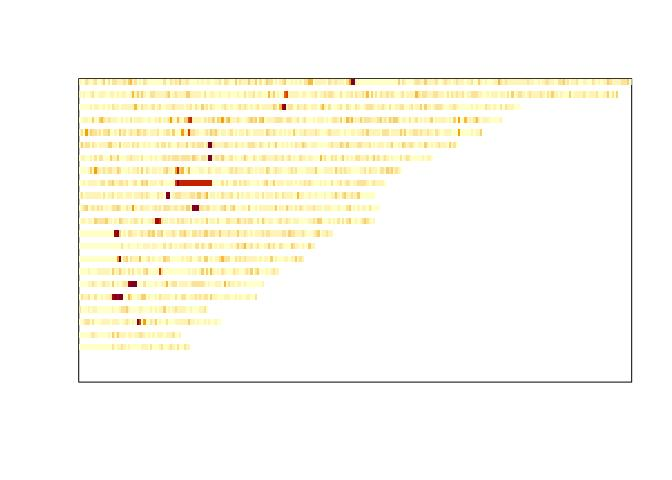
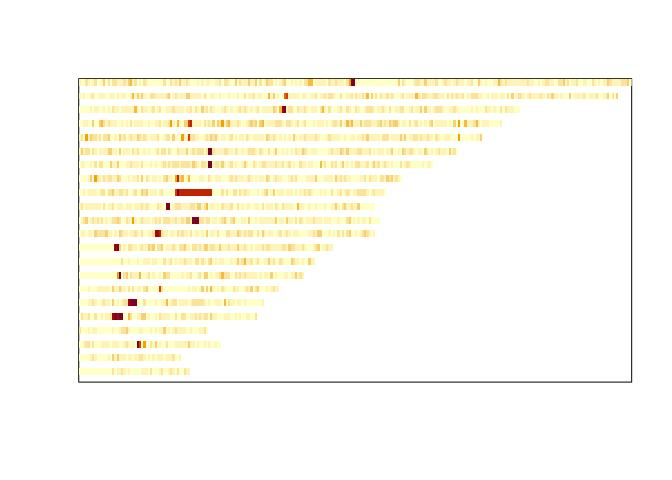
roh update

Changed region(s): [[0.0938, 0.1875, 0.9375, 0.7812]]

diff --git a/roh/roh.md b/roh/roh.md
@@ -1,13 +1,34 @@
 Runs of homozygosity on 943 individuals
 ================
 
+## Runs of homozygozity (ROH)
+
+#### ROHs quality histogram
+
+``` r
+# Quality filtering: Quality>25 & #markers > 50
+roh <- roh %>% 
+  filter(Quality > 25 & Number_of_markers >50)
+```
+
+#### ROH stats after quality filtering
+
 | stat                |   min |  median |      mean |        max |
 |:--------------------|------:|--------:|----------:|-----------:|
-| Length              | 609.0 | 73043.0 | 159868.28 | 63912719.0 |
-| Number\_of\_markers |  51.0 |   133.0 |    211.22 |    45797.0 |
-| Quality             |  25.1 |    60.5 |     59.46 |       98.7 |
+| Length              | 609.0 | 72459.0 | 123018.00 | 29363916.0 |
+| Number\_of\_markers |  51.0 |   132.0 |    193.66 |    33173.0 |
+| Quality             |  25.1 |    60.4 |     59.40 |       98.7 |
 
-ROHs quality histogram
+Average ROH size per genome (additionally filtered: &gt;100kb)
+
+| stat      |       average |
+|:----------|--------------:|
+| count     |       1124.41 |
+| maxLen    |   14239847.30 |
+| meanLen   |     252746.68 |
+| medianLen |     164071.12 |
+| minLen    |     100073.33 |
+| sumLen    | 284174602\.38 |
 
 ## Results
 
@@ -55,26 +76,28 @@ ROHs quality histogram
 | 2Mb-5Mb  |     2.892791 |
 | &gt;10Mb |    16.239240 |
 
-4.  Sum of ROHs per chromosome and individual
-
-<!-- -->
-
-    ## `summarise()` has grouped output by 'sample_id', 'Chromosome'. You can override using the `.groups` argument.
-
-![](roh_files/figure-gfm/unnamed-chunk-4-1.jpeg)<!-- -->
-
-    ## `summarise()` has grouped output by 'sample_id'. You can override using the `.groups` argument.
-
-    ## Adding missing grouping variables: `sample_id`
-
-|     | sample\_id       | mean\_SROH\_Mb |
-|:----|:-----------------|:---------------|
-|     | Length:6575      | Min. : 2.000   |
-|     | Class :character | 1st Qu.: 2.358 |
-|     | Mode :character  | Median : 2.972 |
-|     | NA               | Mean : 4.763   |
-|     | NA               | 3rd Qu.: 3.900 |
-|     | NA               | Max. :38.193   |
+<!-- 4. Sum of ROHs per chromosome and individual -->
+<!-- ```{r, echo=F} -->
+<!-- roh$Chromosome <- gsub('chr','',roh$Chromosome) -->
+<!-- roh$Chromosome <- as.numeric(roh$Chromosome) -->
+<!-- roh$Chromosome <- factor(roh$Chromosome) -->
+<!-- roh$Chromosome <- ordered(roh$Chromosome, levels = 1:22) -->
+<!-- roh %>% group_by(sample_id,Chromosome,Range) %>% -->
+<!--   arrange(desc(Chromosome)) %>% -->
+<!--   summarise(SROH_Mb = sum(Length)/1e+06) %>% -->
+<!--   ggplot(aes(x=Chromosome,y=SROH_Mb,col=Range)) + -->
+<!--   geom_jitter() + -->
+<!--   theme_classic() + -->
+<!--   ylab('SROH (Mb)') + -->
+<!--   xlab('Chromosome') + -->
+<!--   scale_color_manual(values=group.colors) -->
+<!-- kable(summary( -->
+<!--   roh %>% group_by(sample_id,Chromosome) %>% -->
+<!--   summarise(mean_SROH_Mb = sum(Length)/1e+06) %>% -->
+<!--     select(mean_SROH_Mb) -->
+<!--   ) -->
+<!-- ) -->
+<!-- ``` -->
 
 5.  Sum of ROH length per range
 
